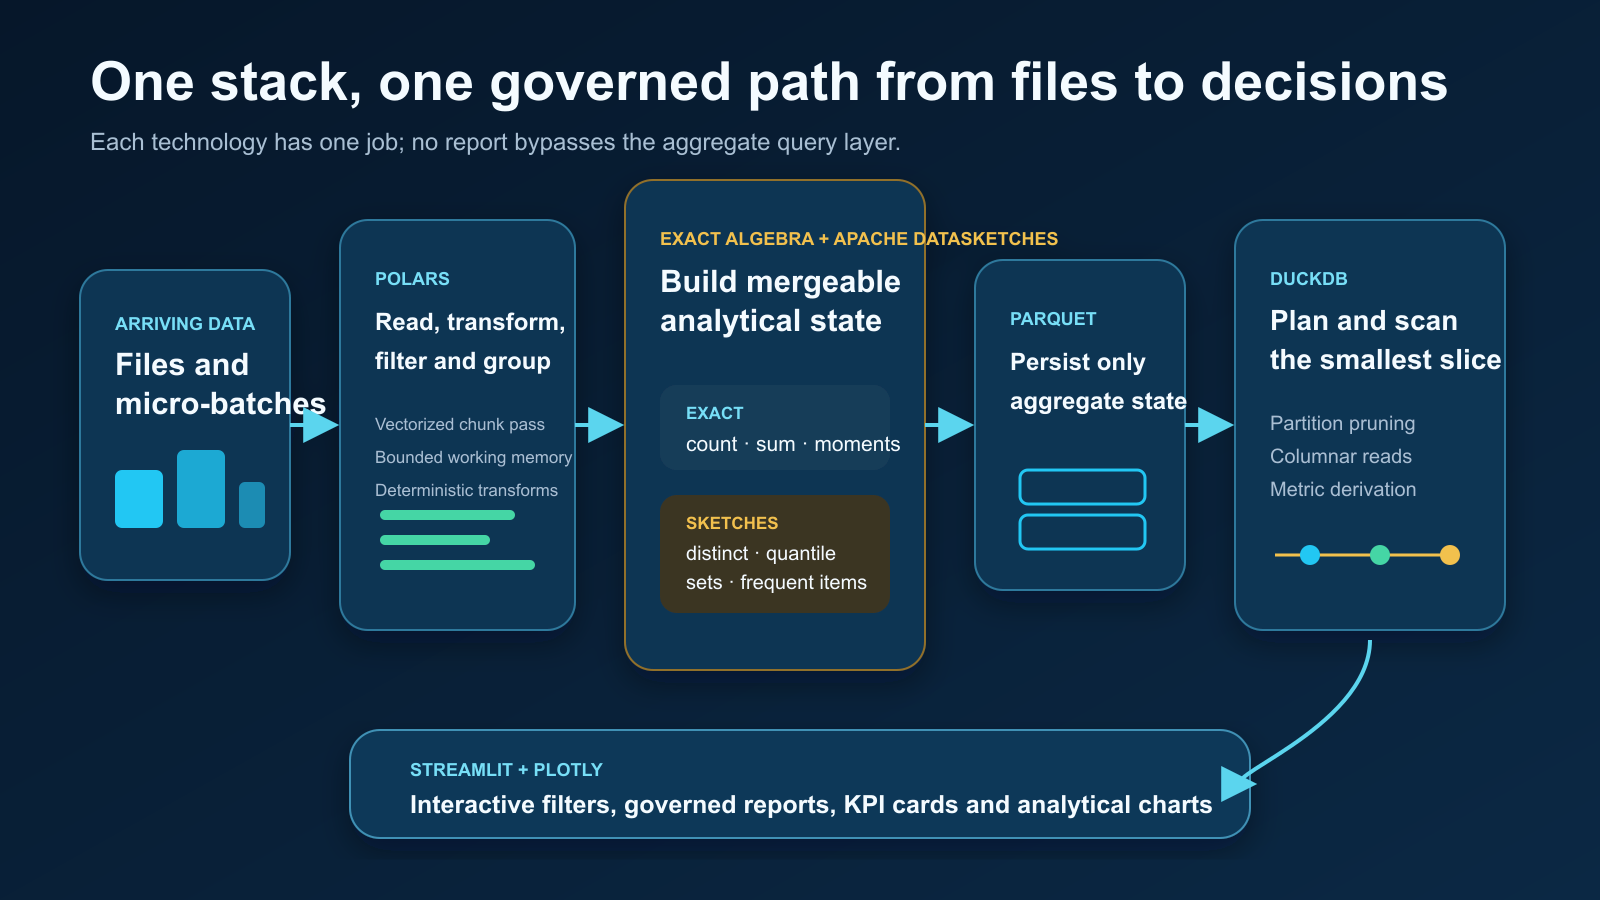
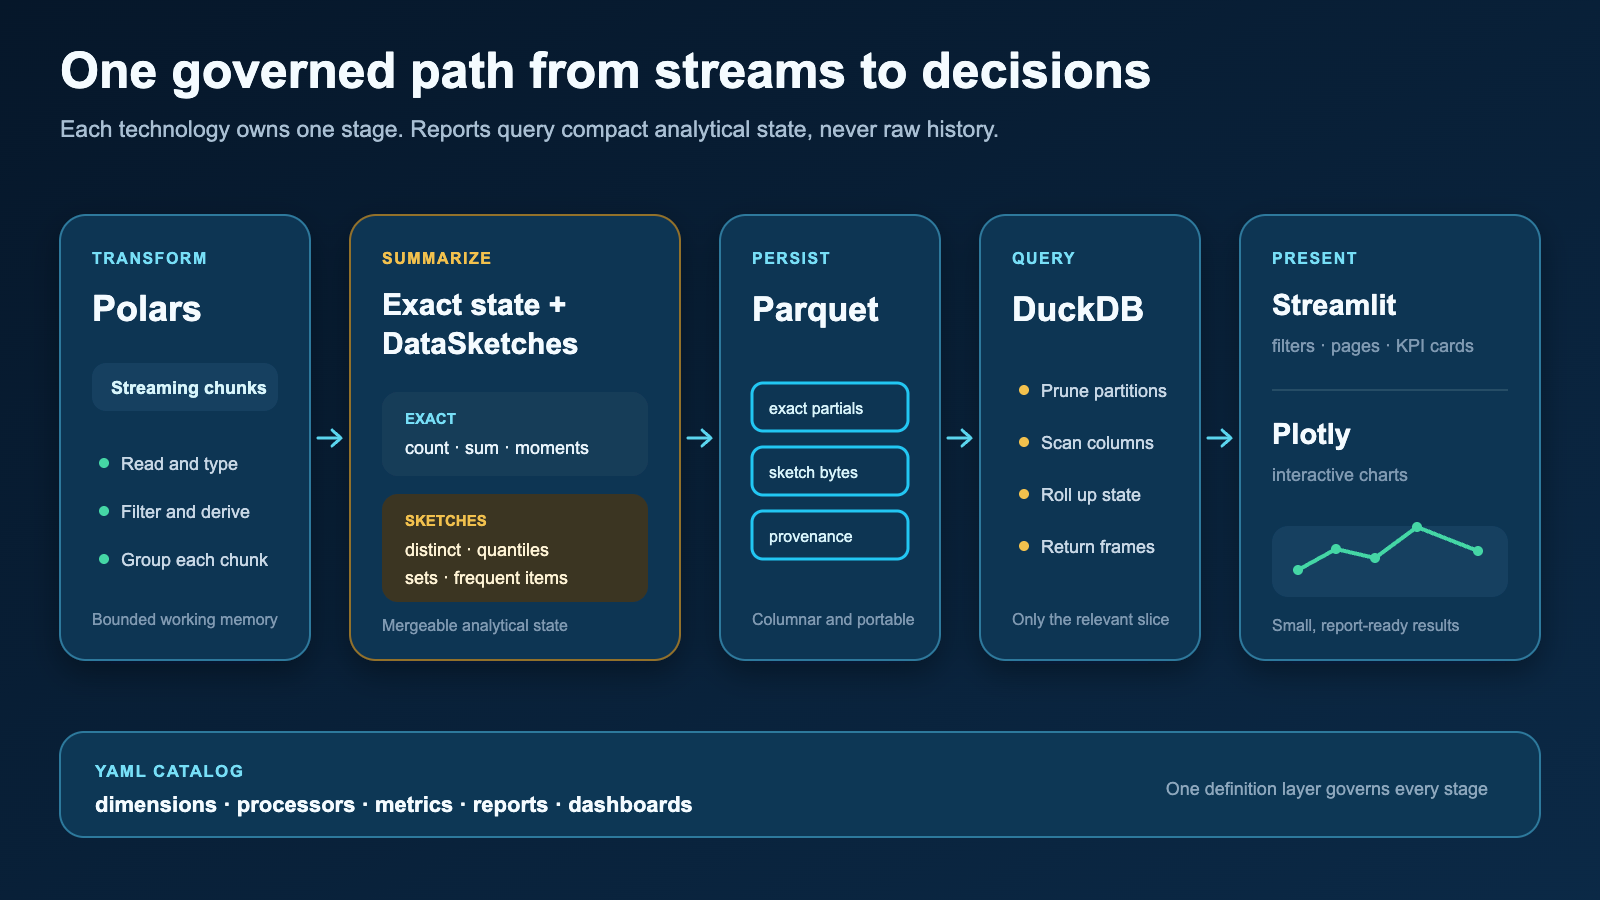
docs: refine aggregate-first article visuals

Changed region(s): [[0.0312, 0.0622, 0.9688, 0.7467], [0.0312, 0.7778, 0.9375, 0.9333]]

diff --git a/docs/articles/from-streams-to-decisions-part-1.html b/docs/articles/from-streams-to-decisions-part-1.html
@@ -486,11 +486,11 @@
       </table>
     </div>
 
-    <h2>A real workspace: from almost two billion rows to a queryable model</h2>
+    <h2>A real-data example: from two billion rows to a queryable model</h2>
 
     <p>
-      A useful example is a large generated workspace used to exercise the full reporting path.
-      These are observed workspace and run values, not a hypothetical benchmark.
+      This example comes from a large real-data workspace used to exercise the full reporting
+      path. These are observed values, not a hypothetical benchmark.
     </p>
 
     <p>
@@ -501,11 +501,7 @@
     </p>
 
     <p>
-      In the latest successful ingestion run, 1,998,151,261 input records were read and
-      1,998,151,259 were retained by the configured filters. They arrived in 799 daily chunks
-      covering 14 April 2022 through 18 September 2024. The current run produced 2,274,653
-      aggregate records in about 25 minutes and 31 seconds: roughly an 878× reduction from
-      source rows to queryable aggregate records.
+      About two billion source records became about two million queryable aggregate records.
     </p>
 
     <p>
@@ -517,20 +513,20 @@
 
     <figure>
       <img
-        src="assets/from-streams-to-decisions-part-1/fat-workspace-scale.png"
-        alt="Observed scale of a workspace reducing nearly two billion source rows to about 2.27 million aggregate records"
+        src="assets/from-streams-to-decisions-part-1/real-data-scale.png"
+        alt="A real-data example reducing about two billion source rows to about two million queryable aggregate records"
         width="1600"
         height="900"
         loading="lazy">
       <figcaption>
-        Observed FAT-workspace values: 1.998 billion source rows became 2.275 million current-run aggregate records.
+        In one real-data example, roughly two billion source rows became roughly two million queryable aggregate records.
       </figcaption>
     </figure>
 
     <p>
-      A monthly slice makes the reduction easier to picture. For 1–18 September 2024, the source
-      contained 55,007,727 rows. The corresponding aggregate slice contained 122,526 records,
-      about 449× fewer rows to scan, filter, merge, and visualize.
+      An 18-day slice makes the reduction easier to picture. About 55 million source rows became
+      about 123 thousand aggregate records—roughly 449× fewer rows to scan, filter, merge, and
+      visualize.
     </p>
 
     <p>
